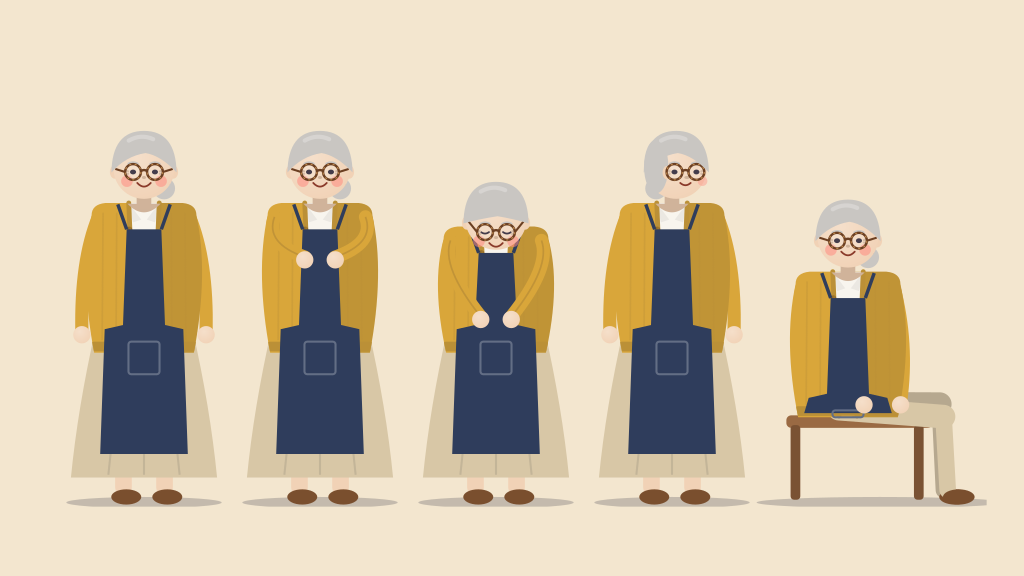
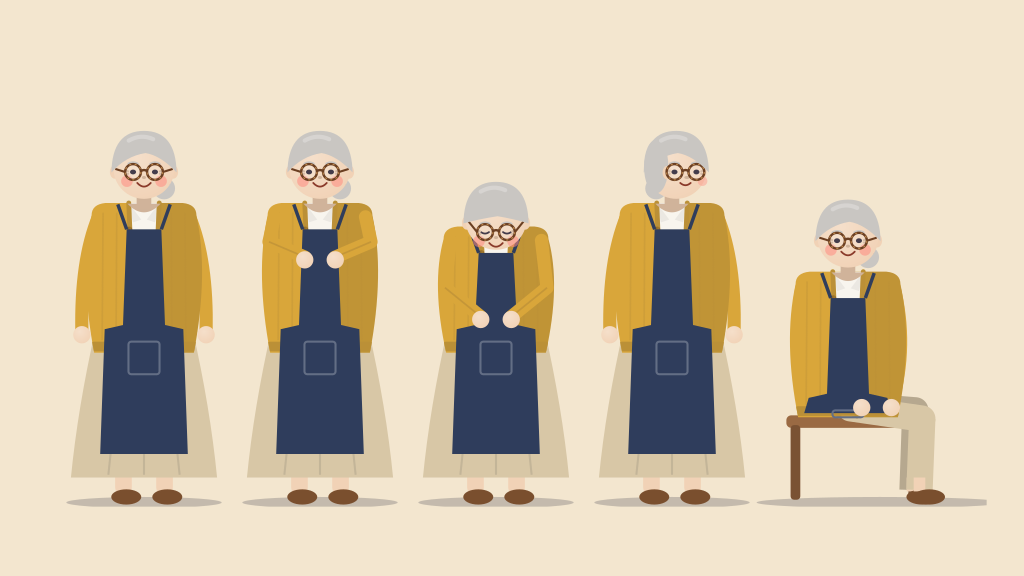
feat(kit): look polish after O9 approval — sit legs, straight forearms, kissaten seating, veranda susuki (D61)
Claude-Session: https://claude.ai/code/session_01XowuYW5WQyZVayGQKumT27

Changed region(s): [[0.8125, 0.5938, 0.9688, 0.875], [0.5, 0.4688, 0.5625, 0.5312], [0.3438, 0.4062, 0.375, 0.4375]]

diff --git a/src/lib/services/director/setKit.ts b/src/lib/services/director/setKit.ts
@@ -16,7 +16,7 @@ export const SET_TIMES = ["dawn", "day", "golden", "dusk", "night"] as const;
 export const SET_WEATHER = ["clear", "cloudy", "rain", "snow", "fog"] as const;
 export const SET_PROPS = [
   // interior
-  "table", "low-table", "chair", "window", "shelf", "lamp", "stove", "plant", "rug", "door", "clock", "painting", "bed", "counter", "teapot", "siphon", "radio", "lantern", "shoji", "bookcase", "sofa", "desk", "blackboard",
+  "table", "low-table", "chair", "window", "shelf", "lamp", "stove", "plant", "rug", "door", "clock", "painting", "bed", "counter", "teapot", "siphon", "radio", "stool", "cafe-table", "lantern", "shoji", "bookcase", "sofa", "desk", "blackboard",
   // exterior
   "tree", "cherry-tree", "pine", "house", "boat", "pier", "fence", "streetlamp", "stall", "bench", "rocks", "bridge", "lighthouse", "temple-gate", "flowers",
 ] as const;
@@ -60,7 +60,7 @@ const WEATHER_ALIASES: Record<string, (typeof SET_WEATHER)[number]> = { sunny: "
 const PROP_ALIASES: Record<string, (typeof SET_PROPS)[number]> = {
   altar: "shelf", cabinet: "shelf", cupboard: "shelf", dresser: "shelf", oven: "stove", fireplace: "stove", hearth: "stove", "cooking pot": "stove", sink: "counter", kettle: "teapot", pot: "teapot",
   couch: "sofa", curtain: "window", curtains: "window", picture: "painting", photo: "painting", frame: "painting", candle: "lantern", lanterns: "lantern", "paper lantern": "lantern",
-  books: "bookcase", bookshelf: "bookcase", chalkboard: "blackboard", stool: "chair", mat: "rug", carpet: "rug", tatami: "rug", flower: "flowers", vase: "flowers",
+  books: "bookcase", bookshelf: "bookcase", chalkboard: "blackboard", stool: "stool", "bar stool": "stool", "counter stool": "stool", "cafe table": "cafe-table", "café table": "cafe-table", "small table": "cafe-table", "round table": "cafe-table", "coffee table": "cafe-table", mat: "rug", carpet: "rug", tatami: "rug", flower: "flowers", vase: "flowers",
   "lamp post": "streetlamp", lamppost: "streetlamp", "street lamp": "streetlamp", gate: "temple-gate", torii: "temple-gate", shrine: "temple-gate", ship: "boat", dock: "pier",
   "siphon coffee maker": "siphon", "coffee siphon": "siphon", "coffee maker": "siphon", "tube radio": "radio", "old radio": "radio", "vintage radio": "radio", "wall clock": "clock", "potted plant": "plant", "potted plants": "plant",
   rock: "rocks", stones: "rocks", sakura: "cherry-tree", "cherry blossom": "cherry-tree", stand: "stall", booth: "stall", trees: "tree", houses: "house", plants: "plant",
@@ -239,6 +239,18 @@ function drawProp(c: Ctx, p: SetProp, x: number, base: number, s: number): void 
       if (c.night) glow(x, base - 48 * s, 90 * s);
       break;
     }
+    case "stool":
+      // counter stool: round padded seat on one post, a footrest ring, a round foot
+      o.push(`<ellipse cx="${n(x)}" cy="${n(base - 4 * s)}" rx="${n(46 * s)}" ry="${n(10 * s)}" fill="${dark}"/><rect x="${n(x - 6 * s)}" y="${n(base - 190 * s)}" width="${n(12 * s)}" height="${n(186 * s)}" fill="#8b8f96"/>`);
+      o.push(`<ellipse cx="${n(x)}" cy="${n(base - 70 * s)}" rx="${n(34 * s)}" ry="${n(8 * s)}" fill="none" stroke="#8b8f96" stroke-width="${n(5 * s)}"/>`);
+      o.push(`<rect x="${n(x - 52 * s)}" y="${n(base - 212 * s)}" width="${n(104 * s)}" height="${n(26 * s)}" rx="${n(13 * s)}" fill="${mix(c.spec.accent, "#7a2e22", 0.45)}"/><rect x="${n(x - 48 * s)}" y="${n(base - 192 * s)}" width="${n(96 * s)}" height="${n(8 * s)}" rx="${n(4 * s)}" fill="${dark}"/>`);
+      break;
+    case "cafe-table":
+      // a small round table (pedestal) with a cup and saucer on it
+      o.push(`<ellipse cx="${n(x)}" cy="${n(base - 4 * s)}" rx="${n(60 * s)}" ry="${n(12 * s)}" fill="${dark}"/><rect x="${n(x - 9 * s)}" y="${n(base - 150 * s)}" width="${n(18 * s)}" height="${n(146 * s)}" fill="${dark}"/>`);
+      o.push(`<ellipse cx="${n(x)}" cy="${n(base - 150 * s)}" rx="${n(120 * s)}" ry="${n(24 * s)}" fill="${wood}"/><ellipse cx="${n(x)}" cy="${n(base - 156 * s)}" rx="${n(116 * s)}" ry="${n(20 * s)}" fill="${mix(wood, "#ffffff", 0.15)}"/>`);
+      o.push(`<ellipse cx="${n(x + 20 * s)}" cy="${n(base - 160 * s)}" rx="${n(26 * s)}" ry="${n(6 * s)}" fill="#f6f0e2"/><path d="M${n(x + 6 * s)} ${n(base - 186 * s)} h${n(28 * s)} l${n(-3 * s)} ${n(24 * s)} h${n(-22 * s)} Z" fill="#f6f0e2"/>`);
+      break;
     case "plant":
     case "flowers":
       o.push(`<path d="M${n(x - 40 * s)} ${n(base - 80 * s)} L${n(x + 40 * s)} ${n(base - 80 * s)} L${n(x + 30 * s)} ${n(base)} L${n(x - 30 * s)} ${n(base)} Z" fill="${p === "plant" ? mix(c.spec.accent, "#a0522d", 0.5) : "#6b8e4e"}"/>`);
@@ -494,18 +506,65 @@ function kissaten(c: Ctx): void {
   drawProp(c, "teapot", cX + 125 * cs, top, 0.6 * cs);
   // a tall potted plant in the corner
   drawProp(c, "plant", W * 0.92, floorY + 70 * k, 1.3 * Math.max(k, 0.7));
+  // customer seating (owner QC 2026-10-10: the stories seat guests): two stools at the counter, a small table for two by the window
+  for (const dx of [-90, 75]) drawProp(c, "stool", cX + dx * cs, floorY + 70 * k, 0.95 * cs);
+  const ts = 1.15 * k * (W > H ? 1 : 1.5);
+  const tX = W * (W > H ? 0.74 : 0.72);
+  const tBase = floorY + (W > H ? 150 : 260) * k;
+  cafeChair(c, tX - 165 * ts, tBase - 10 * ts, ts, 1);
+  cafeChair(c, tX + 165 * ts, tBase - 10 * ts, ts, -1);
+  drawProp(c, "cafe-table", tX, tBase, ts);
   // the spec's own props on the free floor slots
-  const built = new Set<SetProp>(["counter", "siphon", "teapot", "radio", "clock", "plant", "window"]);
+  const built = new Set<SetProp>(["counter", "siphon", "teapot", "radio", "clock", "plant", "window", "stool", "cafe-table", "chair"]);
   const slots = [0.66, 0.5, 0.08];
   let f = 0;
   for (const p of spec.props) if (!built.has(p)) drawProp(c, p, W * slots[f++ % slots.length], floorY + 90 * k, (p === "rug" ? 1 : 1.4) * k);
 }
 
+/** A wooden café chair seen from the side, its back away from the table (`facing` 1 = the table is to the right). */
+function cafeChair(c: Ctx, x: number, base: number, s: number, facing: 1 | -1): void {
+  const wood = mix(c.spec.accent, "#6b4a2b", 0.55);
+  const dark = mix(wood, "#1d1a26", 0.35);
+  const bx = x - facing * 48 * s;
+  c.out.push(`<rect x="${n(bx - 7 * s)}" y="${n(base - 230 * s)}" width="${n(14 * s)}" height="${n(230 * s)}" rx="${n(4 * s)}" fill="${dark}"/>`);
+  for (let k = 0; k < 3; k++) c.out.push(`<rect x="${n(Math.min(bx, bx + facing * 20 * s) - 7 * s)}" y="${n(base - (220 - k * 32) * s)}" width="${n(34 * s)}" height="${n(8 * s)}" rx="${n(3 * s)}" fill="${wood}"/>`);
+  c.out.push(`<rect x="${n(Math.min(bx, x + facing * 50 * s) - 7 * s)}" y="${n(base - 112 * s)}" width="${n(Math.abs(x + facing * 50 * s - bx) + 14 * s)}" height="${n(16 * s)}" rx="${n(5 * s)}" fill="${wood}"/>`);
+  c.out.push(`<rect x="${n(x + facing * 44 * s - 6 * s)}" y="${n(base - 98 * s)}" width="${n(12 * s)}" height="${n(98 * s)}" fill="${dark}"/>`);
+}
+
 /** A back veranda (縁側) at the hour: the garden beyond, wooden deck boards in front, the eaves above, a shoji edge. */
 function veranda(c: Ctx): void {
   const { W, H, spec, out: o } = c;
-  landscape({ ...c, spec: { ...spec, place: "garden", props: [] } });
+  landscape({ ...c, spec: { ...spec, props: [] } });
   const k = Math.min(W / 1920, H / 1080);
+  // the garden beyond: low shrubs with a lit rim and clumps of susuki (owner QC 2026-10-10: no dark blobs)
+  const groundY = H * 0.74;
+  const leaf = mix(spec.main, c.night ? "#1b2a3a" : "#3f6b4a", c.night ? 0.55 : 0.25);
+  const rim = c.night ? "#c9d3e6" : mix(spec.main, "#ffffff", 0.35);
+  for (let i = 0; i < 6; i++) {
+    const sx = W * (0.12 + i * 0.16 + 0.04 * (rand(c.id, i + 1500) - 0.5));
+    const sw = (170 + 90 * rand(c.id, i + 1510)) * k * (W > H ? 1 : 1.4);
+    const sh = (70 + 40 * rand(c.id, i + 1520)) * k * (W > H ? 1 : 1.4);
+    const top = groundY + 10 * k - sh;
+    let d = `M${n(sx - sw / 2)} ${n(groundY + 30 * k)}`;
+    for (let j = 0; j <= 4; j++) d += ` Q${n(sx - sw / 2 + (sw * (j + 0.5)) / 5)} ${n(top - 18 * k * rand(c.id, i * 10 + j))} ${n(sx - sw / 2 + (sw * (j + 1)) / 5)} ${n(top + 12 * k + 10 * k * rand(c.id, i * 10 + j + 5))}`;
+    o.push(`<path d="${d} L${n(sx + sw / 2)} ${n(groundY + 30 * k)} Z" fill="${leaf}"/>`);
+    o.push(`<path d="M${n(sx - sw * 0.35)} ${n(top + 8 * k)} Q${n(sx)} ${n(top - 10 * k)} ${n(sx + sw * 0.3)} ${n(top + 10 * k)}" fill="none" stroke="${rim}" stroke-opacity="${c.night ? 0.45 : 0.35}" stroke-width="${n(4 * Math.max(k, 0.6))}" stroke-linecap="round"/>`);
+  }
+  const plume = c.night ? "#d8d2bc" : "#e2cf9e";
+  for (const [i, fx] of [[0, 0.3], [1, 0.62], [2, 0.88]] as const) {
+    const bx = W * fx;
+    const by = groundY + 40 * k;
+    const tall = 300 * k * (W > H ? 1 : 1.4);
+    for (let j = 0; j < 9; j++) {
+      const a = (j - 4) * 0.11 + (rand(c.id, i * 20 + j + 1600) - 0.5) * 0.08;
+      const L = tall * (0.7 + 0.3 * rand(c.id, i * 20 + j + 1620));
+      const tx = bx + Math.sin(a) * L + 30 * k;
+      const ty = by - Math.cos(a) * L;
+      o.push(`<path d="M${n(bx)} ${n(by)} Q${n(bx + Math.sin(a) * L * 0.5)} ${n(by - L * 0.55)} ${n(tx)} ${n(ty)}" fill="none" stroke="${mix(leaf, plume, 0.35)}" stroke-width="${n(3 * Math.max(k, 0.6))}"/>`);
+      o.push(`<path d="M${n(tx)} ${n(ty)} q${n(18 * k)} ${n(14 * k)} ${n(40 * k)} ${n(48 * k)}" fill="none" stroke="${plume}" stroke-opacity="0.85" stroke-width="${n(9 * Math.max(k, 0.6))}" stroke-linecap="round"/>`);
+    }
+  }
   const deckY = H * 0.8;
   const wood = mix(spec.accent, "#7a5233", 0.55);
   const lit = c.night ? mix(wood, "#0b1330", 0.35) : wood;
@@ -576,7 +635,7 @@ function landscape(c: Ctx): void {
       const r = (spec.place === "forest" ? 90 : 70) + 30 * rand(c.id, k + 710);
       o.push(`<circle cx="${n(tx)}" cy="${n(groundY - 120 - 40 * rand(c.id, k + 720))}" r="${n(r)}" fill="${mix(mix("#3f7d4e", spec.main, 0.3), sky.horizon, c.night ? 0.55 : 0.3)}"/>`);
     }
-  } else {
+  } else if (spec.place !== "veranda") {
     // countryside / mountains / snowfield: rolling fields
     for (let k = 0; k < 3; k++) o.push(`<path d="M0 ${n(groundY - 120 + k * 40)} Q${n(W * 0.3)} ${n(groundY - 190 + k * 50)} ${n(W * 0.6)} ${n(groundY - 110 + k * 40)} T${W} ${n(groundY - 130 + k * 40)} L${W} ${n(groundY + 40)} L0 ${n(groundY + 40)} Z" fill="${mix(spec.place === "snowfield" ? "#e9eef5" : spec.main, sky.horizon, 0.45 - k * 0.15)}"/>`);
   }

diff --git a/src/lib/services/director/dollKit.ts b/src/lib/services/director/dollKit.ts
@@ -308,18 +308,22 @@ export function buildDoll(id: string, spec: DollSpec, opts: ActingOptions = {}):
       out.push(`<ellipse cx="${n(footX + 4)}" cy="${n(footY + 2)}" rx="${n(legW * 0.9)}" ry="11" fill="${shoe}"/>`);
     }
   } else if (pose === "sit") {
-    // on a stool, seen 3/4: thighs go sideways from the hip to the knee (the bend reads in silhouette), shins drop to the floor
+    // on a stool, seen 3/4: short thighs run to the seat edge and bend at the knee there, shins drop to the floor, feet flat
+    // (owner QC 2026-10-10: the legs no longer stick out sideways past the seat)
     const thighColor = long || spec.top === "dress" ? spec.topColor : skirted ? bottomColor : legColor;
     const shinColor = long ? spec.topColor : longSkirt ? bottomColor : legColor;
-    const kx = cx + hhw * 2.05;
     const seatTop = hp + legW * 0.55;
-    out.push(`<rect x="${n(cx - hhw * 1.35)}" y="${n(seatTop)}" width="${n(hhw * 3.2)}" height="18" rx="7" fill="#9a6a43"/>`);
-    for (const x of [cx - hhw * 1.15, cx + hhw * 1.55]) out.push(`<rect x="${n(x - 7)}" y="${n(seatTop + 14)}" width="14" height="${n(fy - seatTop - 16)}" rx="5" fill="#7a5233"/>`);
-    for (const [k, o] of [[0, -9], [1, 9]] as const) {
+    const edge = cx + hhw * 1.55;
+    out.push(`<rect x="${n(cx - hhw * 1.35)}" y="${n(seatTop)}" width="${n(edge - (cx - hhw * 1.35) + 6)}" height="18" rx="7" fill="#9a6a43"/>`);
+    for (const x of [cx - hhw * 1.15, edge - 8]) out.push(`<rect x="${n(x - 7)}" y="${n(seatTop + 14)}" width="14" height="${n(fy - seatTop - 16)}" rx="5" fill="#7a5233"/>`);
+    for (const [k, o] of [[0, -10], [1, 10]] as const) {
       const c = k === 0 ? mix(thighColor, "#1d1a26", 0.18) : thighColor;
-      out.push(`<path d="M${n(cx - hhw * 0.2)} ${n(hp + o * 0.4)} L${n(kx + o * 0.3)} ${n(hp + 6 + o)}" fill="none" stroke="${c}" stroke-width="${n(legW + 10)}" stroke-linecap="round"/>`);
-      out.push(`<path d="M${n(kx + o * 0.3)} ${n(hp + 6 + o)} L${n(kx + 6 + o * 0.3)} ${n(fy - 16)}" fill="none" stroke="${k === 0 ? mix(shinColor, "#1d1a26", 0.18) : shinColor}" stroke-width="${n(legW)}" stroke-linecap="round"/>`);
-      out.push(`<ellipse cx="${n(kx + 22 + o * 0.3)}" cy="${n(fy - 6)}" rx="${n(legW * 0.95)}" ry="11" fill="${shoe}"/>`);
+      const kx = edge + o * 0.5;
+      const ky = hp + legW * 0.5 + o * 0.6;
+      out.push(`<path d="M${n(cx - hhw * 0.1 + o)} ${n(hp + o * 0.3)} L${n(kx)} ${n(ky)}" fill="none" stroke="${c}" stroke-width="${n(legW + (longSkirt ? 14 : 10))}" stroke-linecap="round"/>`);
+      out.push(`<path d="M${n(kx)} ${n(ky)} L${n(kx - 4)} ${n(fy - 16)}" fill="none" stroke="${k === 0 ? mix(shinColor, "#1d1a26", 0.18) : shinColor}" stroke-width="${n(legW + (longSkirt ? 14 : 0))}" stroke-linecap="${longSkirt ? "butt" : "round"}"/>`);
+      if (longSkirt) out.push(`<path d="M${n(kx - 4)} ${n(fy - 34)} L${n(kx - 4)} ${n(fy - 14)}" stroke="${spec.skin}" stroke-width="${n(legW * 0.7)}"/>`);
+      out.push(`<ellipse cx="${n(kx + 10)}" cy="${n(fy - 6)}" rx="${n(legW * 0.95)}" ry="11" fill="${shoe}"/>`);
     }
   } else if (pose === "kneel") {
     // seiza: legs folded under the hips, seen from the front as a wide base with two knees
@@ -386,8 +390,8 @@ export function buildDoll(id: string, spec: DollSpec, opts: ActingOptions = {}):
       my = sy + 46;
     } else if (pose === "sit") {
       // hands rest on the thighs
-      x1 = cx + hhw * (s === -1 ? 0.35 : 1.15);
-      y1 = hp - 6;
+      x1 = cx + hhw * (s === -1 ? 0.3 : 0.95);
+      y1 = hp - 2;
       mx = cx + s * (shw + 12);
       my = (y0 + y1) / 2;
     } else if (pose === "kneel") {
@@ -398,8 +402,14 @@ export function buildDoll(id: string, spec: DollSpec, opts: ActingOptions = {}):
       my = (y0 + y1) / 2;
     }
     const arm = armsInFront ? sleeves : out;
-    arm.push(`<path d="M${n(x0)} ${n(y0)} Q${n(mx)} ${n(my)} ${n(x1)} ${n(y1)}" fill="none" stroke="${shortSleeve ? spec.skin : spec.topColor}" stroke-width="${n(armW)}" stroke-linecap="round"/>`);
-    if (armsInFront && !shortSleeve) arm.push(`<path d="M${n(x0)} ${n(y0)} Q${n(mx)} ${n(my)} ${n(x1)} ${n(y1)}" fill="none" stroke="${mix(spec.topColor, "#1d1a26", 0.22)}" stroke-width="2.5" stroke-opacity="0.6"/>`);
+    if (armsInFront) {
+      // upper arm down the side to the elbow, then the forearm straight to the hands (owner QC 2026-10-10: no looping sleeve)
+      const ex = cx + s * (shw - 2);
+      const ey = y0 + (y1 - y0) * 0.62;
+      const d = `M${n(x0)} ${n(y0)} L${n(ex)} ${n(ey)} L${n(x1)} ${n(y1)}`;
+      arm.push(`<path d="${d}" fill="none" stroke="${shortSleeve ? spec.skin : spec.topColor}" stroke-width="${n(armW)}" stroke-linecap="round" stroke-linejoin="round"/>`);
+      if (!shortSleeve) arm.push(`<path d="M${n(ex)} ${n(ey)} L${n(x1)} ${n(y1)}" fill="none" stroke="${mix(spec.topColor, "#1d1a26", 0.22)}" stroke-width="2.5" stroke-opacity="0.5"/>`);
+    } else arm.push(`<path d="M${n(x0)} ${n(y0)} Q${n(mx)} ${n(my)} ${n(x1)} ${n(y1)}" fill="none" stroke="${shortSleeve ? spec.skin : spec.topColor}" stroke-width="${n(armW)}" stroke-linecap="round"/>`);
     if (shortSleeve) {
       const t = 0.42;
       const ex = (1 - t) * (1 - t) * x0 + 2 * (1 - t) * t * mx + t * t * x1;

diff --git a/docs/hackathon/DECISIONS.md b/docs/hackathon/DECISIONS.md
@@ -64,4 +64,5 @@ Where the code or the environment contradicts `SPEC.md`, the code wins and the d
 | D58 | 2026-10-10 | **The owner's narration pipeline is the source of every published Japanese line, and the narration is fixed before the run** (owner decisions A1, A3, B). For each narrated film the Studio writes `docs/hackathon/pilot/<slug>/production.json` in the owner's EP013 schema: one scene per shot, and each line is `{id S01_L01, speaker narrator, text, tts_text, sub_text, sub_pages, pause_after 0.5}`. The voice block is `aivisspeech`, `<NARRATOR_MODEL_ID>`, speed 0.9, pause 1.3, intonation 1.0, `use_field tts_text`. The script also writes `reading_check.txt` (pyopenjtalk katakana, header plus `id\ttext\n\tKANA`) and `director.json` (settings and aspect ratio, kept outside the owner's schema). `tts_text` drops quote brackets and takes a per-line reading override where pyopenjtalk misreads (「まあるい月」 → マールイゲツ, so つき is used). `sub_text` drops the closing 。, and `sub_pages` splits it after 、 (14 characters per page for 9:16, 22 for 16:9). The 3 approved stories moved from the tea room 茶房 to the kissaten 「ひだまり」 with the plots kept. They are now 9:16 Shorts of at most 60 s: 7, 6 and 5 shots, estimated at about 48 / 53 / 42 s. The fūrin showcase film gets the same package (11 lines). The old per-line list (`pilot-lines.*`, D52) is removed; it is superseded. Voice: AivisSpeech morioki (ACML 1.0), credited. Piper JA stays only in the live demo, labelled non-commercial. Merge policy (A2): self-merge on green CI until 2026-10-24, except PRs touching the demo gate/passcodes, budgets, the judge path or `/api/health`. From 2026-10-24 every PR waits for review. | The owner's pipeline has a fixed input format and its own QA (kana preflight, Whisper large-v3, signal QA), so the Studio writes exactly that format and times shots to what comes back, instead of replacing voices after a run. One scene per shot makes the owner's package the shot list itself. Tests: `tests/ownerPackage.test.ts` checks the schema, ids, quote/override handling, subtitle pages, the reading_check format, and that the committed packages parse and fit 60 s. |
 | D59 | 2026-10-10 | **Fixed-narration mode: the owner's recordings drive the film** (owner decision B3–B4). The Director request gains `narrationShots`: one entry per shot (one scene of the owner's package), each with its lines `{id, text, pauseAfter, wav?}`. The route checks every WAV before any model call. The shot texts become the D52 narration, so Ultra plans exactly that many shots and each shot's dialogue is locked to its lines. Recorded shots are voiced with the owner's audio as delivered: each line in order, followed by its `pause_after` of silence, mono 16-bit at the first line's rate. There is no TTS for those lines, and the trace voice id is `owner-recording`, which the publication rule counts as cleared. The plan's guessed length is replaced by the audio: a recorded shot holds its lead-in (0.3 s), its lines, its pauses and a 0.4 s tail. A hold over 12 s is now allowed, up to the 20 s motion limit, so a line is never cut and there is no VOICE_OVERRUN. **The Editor never rewrites a line in any narrated film** (this also closes a D52 gap); it may still move a voice or a transition. A shorter plan gets the remaining lines on its last shot, audio included. `pilot.ts` now reads the owner packages (`docs/hackathon/pilot/PILOT0N_*`). It refuses a package with missing recordings unless `--draft`, reports `timings.json` mismatches over 0.15 s against the measured WAVs, and marks an episode publishable only with every line recorded, one shot per scene, no VOICE_OVERRUN and the 60 s limit met. The fūrin showcase film uses `SHOWCASE_furin/audio/` once it is complete. Every showcase publish now also refuses any line in a non-commercial voice (`voiceProblems`, owner decision A1). | The owner's pipeline has its own QA, so its output should reach the film untouched: no re-synthesis, no rewriting, and timing from the real audio instead of a model guess. Tests (`tests/fixedNarration.test.ts`): the join with pauses and the rate conversion, the draft case, the `timings.json` shapes, holds past 12 s, the package loader, and a mock end-to-end run. In that run all 3 shots are voiced with `owner-recording` (2.5 / 5 / 3.5 s), every shot holds its voice, the Editor is asked to shorten line 1 and the line stays exactly as written, and there is no VOICE_OVERRUN. |
 | D60 | 2026-10-10 | **The Hidamari look in the kit, and 9:16 Shorts** (owner decisions A3, C). Doll kit additions: `figure: "adult"` (head about 1/6 of the height instead of about 1/5; same 400×600 box and foot line, so poses, blinks, lip-sync and hand anchors still land), a real `cardigan` top (open knit front over the blouse `innerColor`, rib band, buttons; no longer mapped to jacket), a `long-skirt` bottom (to the ankle, worn in walks too), a `low-bun` hairstyle, `round-glasses` (tortoiseshell rims), a bib apron with `apronColor` over a cardigan or long skirt, and `shoeColor`. Arms in the hold and bow poses are now drawn in front of the body, so the forearms reach the hands. Set kit additions: place `kissaten`, a small Showa-era coffee shop. Its furniture is built in and scaled to the canvas, so it works at 9:16: the wooden counter with a siphon coffee maker and teapots, a shelf of cups with an old tube radio, a round wall clock, potted plants, and a large window with the light of the hour. Also place `veranda` (縁側: the garden at the hour, deck boards, eaves, a lit shoji), and props `siphon` and `radio`. `cafe`/`喫茶店` now map to kissaten; `porch`/`縁側`/`engawa` map to veranda. Director request: `aspectRatio: "9:16"` (vertical Shorts; the whole loop already took its canvas from it) and `figure: "adult"` (the Cast's human dolls are all forced to adult proportions and the run says so). The pilot sends both, plus the series brief `docs/hackathon/pilot/series.json` (Haru-san's kit spec, the kissaten, the palette) at the top of every episode's story. Look stills from `scripts/director/look-still.ts` are in `evidence/look/` for the owner's approval (O9). | The channel's host is a real recurring character with a fixed look (haru_sheet_prompt), and the channel forbids chibi. The Cast can now say exactly that in kit words, and the engine draws it identically in every episode. The kissaten is what the stories are about, so it is built in rather than left to 6 prop slots. Tests (`tests/hidamariKit.test.ts`): head share under 1/5.8 for adult and over 1/5.2 for storybook; Haru-san's spec draws its colours and tortoiseshell rims; the Cast's words map to the new options; the kissaten draws its siphon, radio and clock at both aspect ratios, deterministically and vertical at 9:16; the night veranda; a 9:16 mock run stores a 9:16 project with vertical frames. The existing set tests pass for the new places and props at every hour. |
+| D61 | 2026-10-10 | **Look approved (O9), with four polish fixes; subtitle pages as in EP013.** Polish: (1) **sit**: the thighs stop at the seat edge, bend at the knee, and the shins drop to the floor with the feet flat (they used to stick out sideways past the seat). (2) **hold/bow**: the upper arm runs down the side to the elbow and the forearm goes straight to the hands, so the sleeve no longer loops. (3) **kissaten seating**: two counter stools in front of the counter and a small round table with two café chairs in the window light, built in, because the stories seat guests (new props `stool` and `cafe-table`). (4) **veranda**: low shrubs with a moonlit rim and three clumps of susuki replace the dark tree blobs. `sub_pages` now match EP013: one page per line (two only when a line needs more than two rows); rows break after 、/。 at about 20 characters and join with `\\N`; a clause is never split. `text`, `tts_text` and the line ids did not change, so the WAVs the owner is rendering from the earlier packages stay valid. | Owner QC on the approved still and on the subtitle layout of the owner's EP013. The pose silhouette tests still hold (sit vs kneel IoU ≤ 0.7, the seat edge moved out to keep it). Package tests now check every row is at most 20 characters and every line has at most 2 pages. |
 

diff --git a/docs/hackathon/BLOCKERS.md b/docs/hackathon/BLOCKERS.md
@@ -16,10 +16,10 @@ B2 is re-opened as **O1** below (it now decides the Tavily prize and whether WP3
 | B2 / O1 | 2026-09-25 (re-opened 2026-10-09) | `TAVILY_API_KEY` on Railway. | — | **Resolved 2026-10-10:** the owner set the key on Railway (deploy b2215297 at commit 1d78517); `/api/health` shows tavily "key present". Next (agent): one hosted trace with real Tavily citations as evidence, research in the showcase re-shoots, bench config C on the culture-heavy prompts; README/Devpost wording switches to live only after that trace. | — | resolved |
 | B5 / O2 | 2026-10-09 | Token Factory credit and expiry. | — | **Resolved 2026-10-10:** balance **$23.06** (AI Builder Program $25 + trial $3.12; September consumption $3.19, October so far $1.87); no expiry date shown; no top-up needed. | — | resolved |
 | B6 / O3 | 2026-10-09 | Railway plan through 2026-12-15. | — | **Resolved 2026-10-10:** Hobby plan with a card on file; the compute hard limit was raised from $20 to $40 (email alert at $25), because AgentNet in the same workspace uses most of the budget. | — | resolved |
-| B7 / O4 | 2026-10-09 | Hidamari pilot (WP5): the narration WAVs. | No episode can be made: the narration is fixed before the run. | **Updated 2026-10-10:** the packages are ready in `docs/hackathon/pilot/` (`PILOT01_tegami`, `PILOT02_umeboshi`, `PILOT03_tsukimi`, plus `SHOWCASE_furin` for the fūrin film). Run your pipeline (kana preflight → produce_voice → run_voice_qa_ep) and return `audio/<line id>.wav` + `audio/timings.json` in each folder: commit them to the branch, or share a folder. Please also check `production.json` against EP013 (field order, and `sub_pages` as a list of page strings). | before the pilot episodes (M3, 2026-10-23); `SHOWCASE_furin` before the fūrin film is published | open |
+| B7 / O4 | 2026-10-09 | Hidamari pilot (WP5): the narration WAVs. | No episode can be made: the narration is fixed before the run. | **In progress 2026-10-10:** the owner copied the 4 packages to his HIDAMARI root and is rendering the WAVs. He will return `audio/*.wav` + `timings.json` per package after his QA. `sub_pages` was updated to the EP013 layout afterwards (D61); `text`, `tts_text` and the line ids did not change, so his recordings stay valid. | before the pilot episodes (M3, 2026-10-23); `SHOWCASE_furin` before the fūrin film is published | owner rendering |
 | B8 / O5 | 2026-10-09 | (Optional) Nebius AI Cloud access for WP10 (Serverless batch). | WP10 is skipped and stays in "What's next". | Only if you want it: create a Nebius AI Cloud project, then tell me; I will write the exact service-account steps. | M2 | open (optional) |
 | O7 | 2026-10-09 | GitHub repo About (description, website, topics, social preview), per OWNER_GITHUB_ABOUT.md. | First impression on GitHub. | **Partly done 2026-10-10:** description, website and topics are set. Remaining: the social preview image, after the re-shot hero film passes a by-eye check (the agent will post the image file). | M3 | partial |
 | O8 | 2026-10-10 | The Japanese voice for published films. | — | **Resolved 2026-10-10:** (c), rendered with the owner's AivisSpeech pipeline (voice morioki, ACML 1.0). Credited in the end credits, README and Devpost. Piper JA stays only in the live demo for judges' own runs, labelled "non-commercial demo voice". | — | resolved |
-| O9 | 2026-10-10 | Look approval: the Haru-san + kissaten still. | No pilot episode is made before you approve the look. | **Still posted 2026-10-10** in STATUS (`docs/hackathon/evidence/look/`: kissaten 16:9 and 9:16, veranda at night, pose sheet). Reply OK, or with changes (colours, proportions, glasses, hair, furniture). | before the pilot episodes | waiting for the owner |
+| O9 | 2026-10-10 | Look approval: the Haru-san + kissaten still. | — | **Approved 2026-10-10** with four non-blocking polish notes (sit legs, hold sleeves, kissaten seating, veranda shrubs), all applied (D61). | — | resolved |
 | B9 | 2026-10-10 | (Info, no action needed now) The agent set `DEMO_OPERATOR_PASSCODE` on Railway on 2026-10-10, after the owner approved B10 Option A, for automated hosted verification (D29). It also set `DEMO_FLOOR_REDRAW=off` (D37, owner rule). | None. | After judging ends (2026-12-15), or any time you want: Railway → studio → **Variables** → `DEMO_OPERATOR_PASSCODE` → ⋮ → **Delete** → **Deploy**. The judges' passcode is unaffected. | 2026-12-16 | info |
 | B10 | 2026-10-09 | Live runs from this session: the operator passcode was blocked by the session's permission guard until the owner approved it. | — | **Resolved 2026-10-10:** owner replied "Approved: create the operator passcode on Railway". The agent created it (32 random characters), set it on Railway and keeps it only in the session scratchpad. Hosted unlock verified (200). See B9 for deleting it after judging. | — | resolved |

diff --git a/docs/hackathon/STATUS.md b/docs/hackathon/STATUS.md
@@ -50,6 +50,7 @@ _Started 2026-10-09 (ICT). Branch `claude/gifted-cannon-1nhl2s` → small PRs to
 - 2026-10-10: **Bánh chưng run 3** (`33760e8`, [trace](evidence/showcase-v2-banh-chung-trace.json); runs [1](evidence/showcase-v2-banh-chung-run1-trace.json) and [2](evidence/showcase-v2-banh-chung-run2-trace.json) kept): **6/6 shots, first pass 5/6, 1 repair, 0 gate failures, critic 6.67, $0.061, published** (2048×1152 @ 24 fps, ffprobe). It has kit sets (a yard, a kitchen, a living room with a window) and sitting, sleeping and hugging poses. Still weak: **shot 2 had no set** (the plan named none, a flat cream background), and both dolls' first specs were rejected for one word (`top` = áo bà ba). Fixed at the source: D46 (every shot gets a set) and D47 (doll specs mapped to the kit). The landing hero is now fūrin (`index.json` `hero: v2-furin`).
 - 2026-10-10: **Bench v2 started on the hosted demo** (two judges: gemma-3-27b-it plus Kimi-K3, both different from the critic and the crew, D36/D49; judging runs on the server, D48). Three fixes were needed before the first valid row: no local provider key (D48), a second judge that failed its probe (D49), and **a 1-shot plan from Super that nothing re-planned (D50, a demo bug as well)**; the two pre-fix rows are kept apart in `evidence/bench-v2-prefix-2026-10-10.jsonl`. First valid pair, `en-lighthouse` (5 shots): **super-only v2 judge 3.3 (gemma 4.8 / Kimi 1.8), $0.038; crew v2 judge 6.3 (gemma 7.0 / Kimi 5.6), first pass 2/5, 2 repairs per shot, critic 4.8 → 6.0, independently judged uplift +1 / +1 on 3 revised shots, $0.110 ($0.358 per finished minute), 5.4 min wall.** The bench then stopped itself at 81% of the server's daily demo token budget (today's showcase and hosted runs used most of it); it resumes after 00:00 UTC, keeping these rows (a scheduled check-in fires at 00:10 UTC). Config C (research) is skipped: no Tavily key on the server (O1).
 - 2026-10-10: **Owner QC: bench paused, quality sprint first.** The day-1 pair mixed commits, so it is evidence only, not results (D51); `EVAL_RESULTS.md` says "not measured yet". Plan: quality sprint until 2026-10-13 (hero props and the prop gate, `hold` attaching the prop to the hands, an insert of the hero object, a validated layer for culturally specific set elements, a plan-vs-render fidelity check, edge-crop and night-readability gates, 45–90 s showcase films, a stricter publish gate with a by-eye checklist), then re-shoot the 3 showcase films (fūrin still has two moons), then the bench on one frozen commit (target 2026-10-14). The scheduled resume at 00:10 UTC was cancelled.
+- 2026-10-10: **O9 approved**; the 4 polish notes are applied (sit legs bend at the seat edge, straight forearms in hold, counter stools and a table for two in the kissaten, susuki and shrubs on the veranda) and the stills below are regenerated. `sub_pages` now follow EP013: one page per line, `\\N` rows of about 20 characters (D61). The owner is rendering the WAVs.
 - 2026-10-10: **Hidamari look for approval (O9)** (D60): Haru-san from the kit (adult proportions, mustard cardigan over a white blouse, navy apron, beige long skirt, round tortoiseshell glasses, silver low bun, brown slip-ons) in the kissaten 「ひだまり」 (counter, siphon, teapots, tube radio, wall clock, plants, large window with afternoon light), warm amber / cream / muted sage. 9:16 Shorts are supported. Engine-only stills (no model call), regenerate with `npx tsx scripts/director/look-still.ts`:
 
   | Kissaten, 9:16 Short | Kissaten, 16:9 | Back veranda (縁側), night | Pose sheet |
